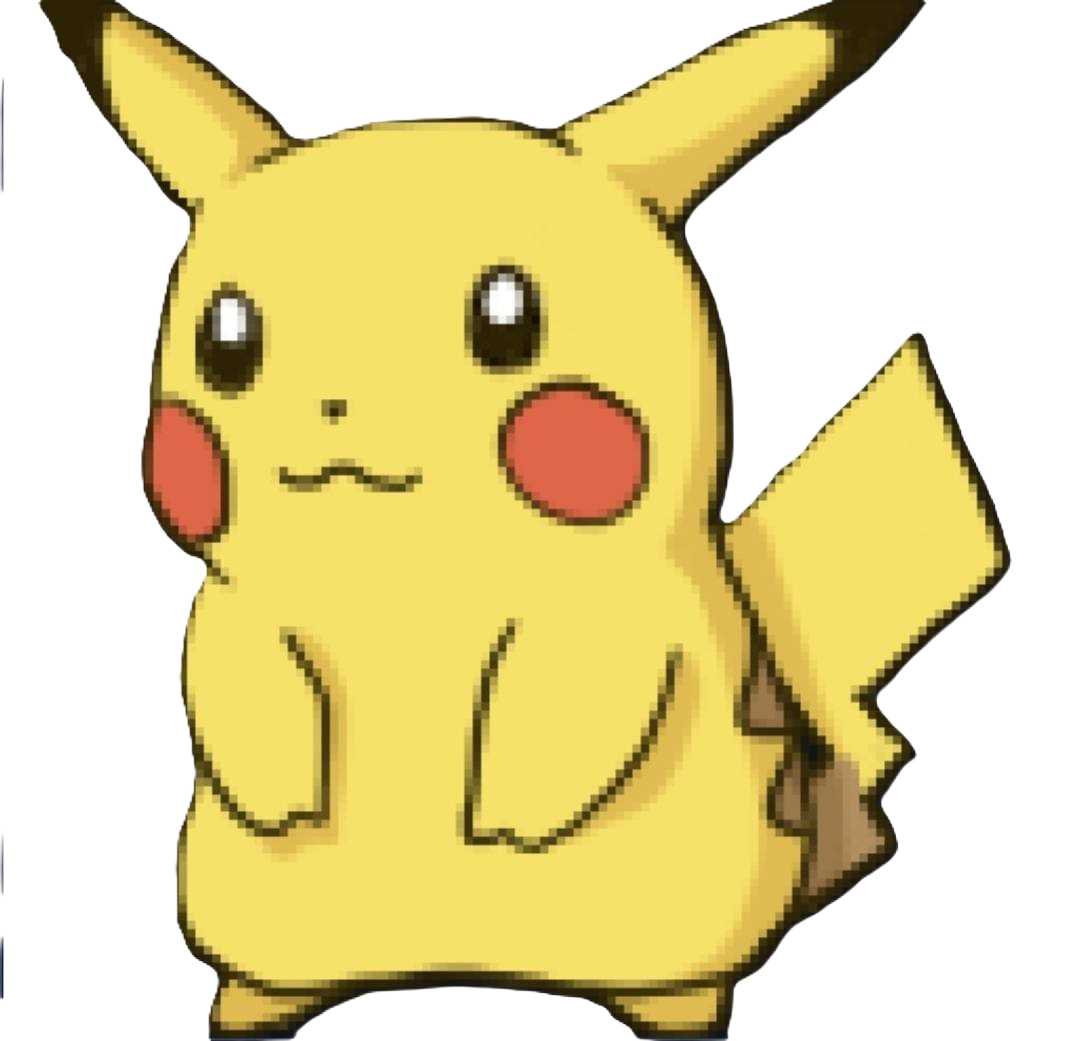
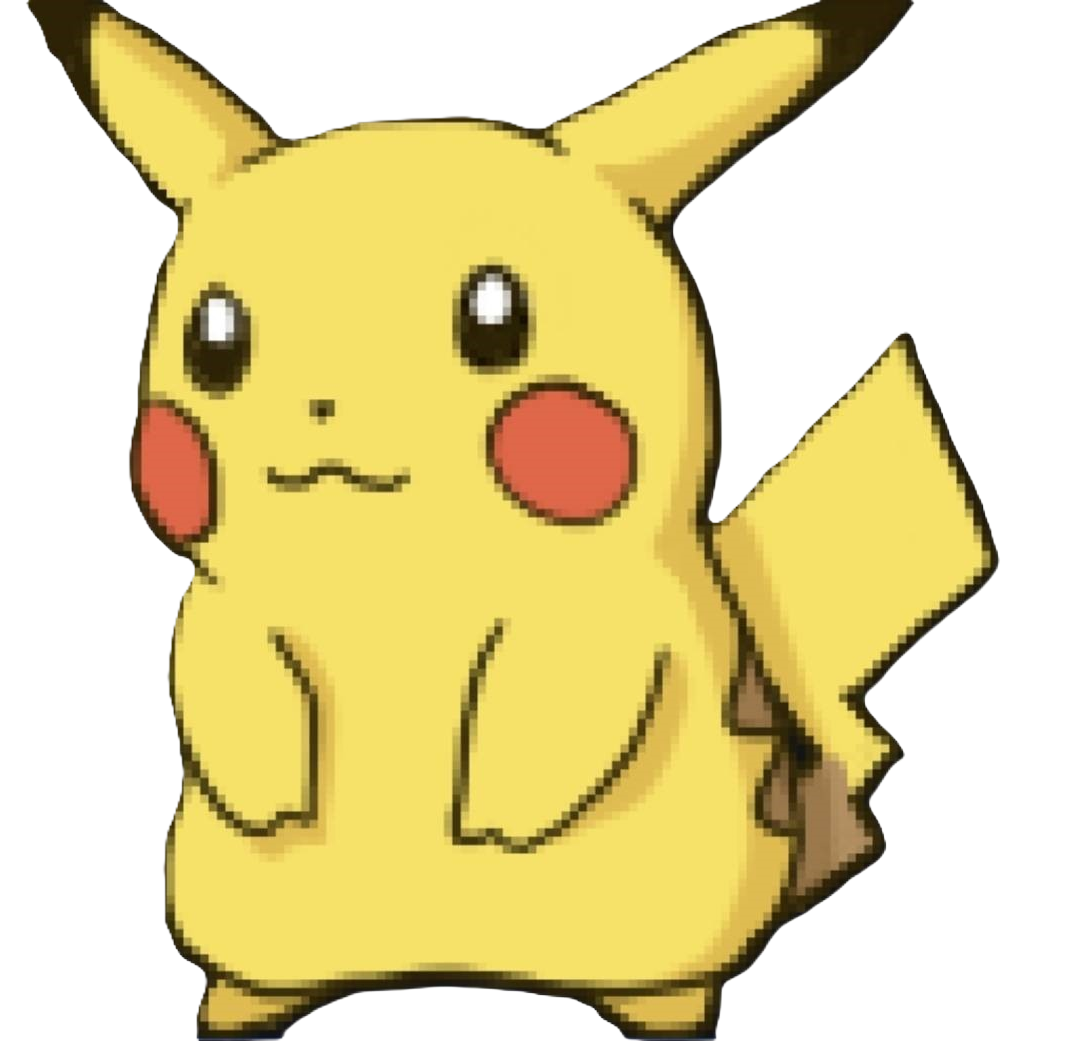
點擊「召喚桌寵」能夠顯示出皮卡丘圖片

diff --git a/src/application/PetWindow.java b/src/application/PetWindow.java
@@ -1,0 +1,53 @@
+package application;
+
+import javafx.application.Platform;
+import javafx.scene.Scene;
+import javafx.scene.image.Image;
+import javafx.scene.image.ImageView;
+import javafx.scene.layout.StackPane;
+import javafx.scene.paint.Color;
+import javafx.stage.Screen;
+import javafx.stage.Stage;
+import javafx.stage.StageStyle;
+
+public class PetWindow {
+
+    public void show() {
+        Platform.runLater(() -> {
+            // 建立寵物圖片
+            ImageView petImage = new ImageView(new Image(
+                PetWindow.class.getResource("/image/pikachu_1.png").toExternalForm()
+            ));
+            petImage.setPreserveRatio(true); //?
+            petImage.setFitWidth(120);//?
+            
+
+            // 建立畫面與背景透明
+            StackPane root = new StackPane(petImage); //?
+            root.setStyle("-fx-background-color: transparent;"); // 設定背景透明
+            Scene scene = new Scene(root); //?
+            scene.setFill(Color.TRANSPARENT); // 設定背景透明
+
+            // 建立視窗
+            Stage stage = new Stage(); //?
+            stage.initStyle(StageStyle.TRANSPARENT); // 無邊框透明
+            stage.setAlwaysOnTop(true);              // 永遠在最上層
+            stage.setScene(scene);
+
+            // 顯示在螢幕右下角
+            double screenWidth = Screen.getPrimary().getVisualBounds().getWidth();
+            double screenHeight = Screen.getPrimary().getVisualBounds().getHeight();
+            stage.setX(screenWidth - 150);
+            stage.setY(screenHeight - 180);
+            
+         // 加入點擊事件
+            petImage.setOnMouseClicked(event -> {
+            	stage.close(); // 點擊後關閉視窗
+                System.out.println("🐾 桌寵被點擊了！");
+            });
+
+            stage.show();
+        });
+    }
+}
+

diff --git a/src/application/Controller.java b/src/application/Controller.java
@@ -13,6 +13,7 @@ public class Controller {
     public void startButtonClicked(ActionEvent e) {
     	Stage startStage = (Stage) startButton.getScene().getWindow();
     	startStage.close();
-    	System.out.println("Start button clicked, closing the start window.");
+    	PetWindow petWindow = new PetWindow();
+    	petWindow.show();
     }
 }

diff --git a/src/application/Main.java b/src/application/Main.java
@@ -4,6 +4,7 @@ import javafx.application.Application;
 import javafx.stage.Stage;
 import javafx.scene.Scene;
 import javafx.scene.layout.BorderPane;
+import javafx.scene.paint.Color;
 import javafx.fxml.FXMLLoader;
 import javafx.scene.Parent;
 import javafx.scene.Scene;
